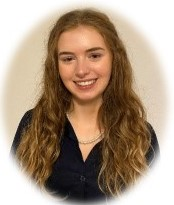
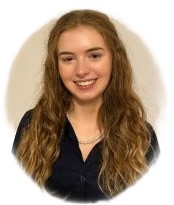
07.11.

Changed region(s): [[0.0, 0.0, 0.977, 1.0], [0.8621, 0.7902, 0.8908, 0.8488]]

diff --git a/functions/mystyle.css b/functions/mystyle.css
@@ -17,6 +17,70 @@ body{
     background-color: #d7f8fe;    
 }
 
+.img-small {
+    width: 30%;
+    height: auto;
+}
+
+.animated-slide-in {
+    animation: slideIn 2s ease-out;
+}
+
+@keyframes slideIn {
+    0% {
+        transform: translateX(-100%); /* Start von links */
+        opacity: 0; /* Unsichtbar zu Beginn */
+    }
+    100% {
+        transform: translateX(0); /* Endposition */
+        opacity: 1; /* Voll sichtbar */
+    }
+}
+
+.img-hover-zoom {
+    width: 30%;
+    height: auto;
+    transition: transform 0.3s ease-in-out;
+}
+
+.img-hover-zoom:hover {
+    transform: scale(1.1); /* Vergrößert das Bild beim Hover */
+}
+
+.position-relative {
+    position: relative;
+    display: inline-block;
+}
+
+.overlay {
+    position: absolute;
+    top: -30px; /* Platziert das Overlay oberhalb des Bildes */
+    left: 50%;
+    transform: translateX(-50%);
+    background-color: rgba(255, 255, 255, 0.9);
+    padding: 5px 10px;
+    border-radius: 5px;
+    display: none; /* Standardmäßig ausgeblendet */
+    box-shadow: 0 0 5px rgba(0, 0, 0, 0.2);
+}
+
+.position-relative:hover .overlay {
+    display: block; /* Zeigt das Overlay an, wenn die Maus über dem Bild ist */
+}
+
+.overlay a {
+    text-decoration: none;
+    color: #333;
+    font-size: 0.9rem;
+}
+
+.overlay img {
+    vertical-align: middle;
+}
+
+
+
+
 /* 
 footer{
     margin-top: 10rem;

diff --git a/templates/team.php b/templates/team.php
@@ -36,33 +36,39 @@ Ein weiterer wichtiger Aspekt ist ihre Leidenschaft und Motivation für ihr Unte
    </p>
   </div>
   <br><br>
-  
 
-  <div class="container text-center">
+
+
+<div class="container text-center">
   <div class="row">
-    <div class="col">
-      1 of 2
-      <img src="assets/img/celi1.jpg" class="card-img-top" alt="Bild überfüllter Apothekenschrank" style="width: 30%; height: auto;">
+    <div class="col position-relative">
+      <div class="overlay">
+        <a href="https://github.com/celinebittmann" target="_blank">
+          <img src="assets/img/github_logo.jpg" alt="GitHub Icon" style="width: 16px; height: 16px; margin-right: 5px;">
+          GitHub - Celine Bittmann
+        </a>
+      </div>
+      <img src="assets/img/celi2.jpg" class="img-small animated-slide-in img-hover-zoom" alt="Bild von Celine">
     </div>
-    <div class="col">
-      2 of 2
-      <img src="assets/img/anja.jpg" class="card-img-top" alt="Bild überfüllter Apothekenschrank" style="width: 30%; height: auto;">
-    </div>
-  </div>
-  <div class="row">
-    <div class="col">
-      1 of 2
-    </div>
-    <div class="col">
-      2 of 2
+    <div class="col position-relative">
+      <div class="overlay">
+        <a href="https://github.com/celinebittmann" target="_blank">
+          <img src="assets/img/github_logo.jpg" alt="GitHub Icon" style="width: 16px; height: 16px; margin-right: 5px;">
+          GitHub - Anja Brüstl
+        </a>
+      </div>
+      <img src="assets/img/celi1.jpg" class="img-small animated-slide-in img-hover-zoom" alt="Bild von Anja">
     </div>
   </div>
 </div>
+
+
 
 
 </div>
     <script src="https://cdn.jsdelivr.net/npm/bootstrap@5.3.2/dist/js/bootstrap.bundle.min.js" integrity="sha384-C6RzsynM9kWDrMNeT87bh95OGNyZPhcTNXj1NW7RuBCsyN/o0jlpcV8Qyq46cDfL" crossorigin="anonymous"></script>
   </body>
+
   <!-- Hintergrundfarbe & -verlauf -->
   <style>
 body {
@@ -85,6 +91,70 @@ body {
         background-position: 0% 50%;
     }
 }
+
+
+
+
+.img-small {
+    width: 30%;
+    height: auto;
+    transition: transform 0.3s ease-in-out;
+}
+
+.animated-slide-in {
+    animation: slideIn 2s ease-out;
+}
+
+@keyframes slideIn {
+    0% {
+        transform: translateX(-100%); /* Start von links */
+        opacity: 0; /* Unsichtbar zu Beginn */
+    }
+    100% {
+        transform: translateX(0); /* Endposition */
+        opacity: 1; /* Voll sichtbar */
+    }
+}
+
+.img-hover-zoom:hover {
+    transform: scale(1.1); /* Vergrößert das Bild beim Hover */
+}
+
+.position-relative {
+    position: relative;
+    display: inline-block;
+}
+
+.overlay {
+    position: absolute;
+    top: -40px; /* Platziert das Overlay oberhalb des Bildes */
+    left: 50%;
+    transform: translateX(-50%);
+    background-color: rgba(255, 255, 255, 0.9);
+    padding: 5px 10px;
+    border-radius: 5px;
+    display: none; /* Standardmäßig ausgeblendet */
+    box-shadow: 0 0 5px rgba(0, 0, 0, 0.2);
+    z-index: 10; /* Stellt sicher, dass das Overlay über dem Bild bleibt */
+}
+
+.position-relative:hover .overlay {
+    display: block; /* Zeigt das Overlay an, wenn die Maus über dem Bild ist */
+}
+
+.overlay a {
+    text-decoration: none;
+    color: #333;
+    font-size: 0.9rem;
+}
+
+.overlay img {
+    vertical-align: middle;
+}
+
+
 </style>
+
+
 
 </html>

diff --git a/app.php b/app.php
@@ -27,7 +27,46 @@ $andi = $dbh->query($sql);
 
     <br>
     <h1>Unsere App</h1>
+    <br> <br>
 
+    <div id="carouselExampleCaptions" class="carousel slide">
+  <div class="carousel-indicators">
+    <button type="button" data-bs-target="#carouselExampleCaptions" data-bs-slide-to="0" class="active" aria-current="true" aria-label="Slide 1"></button>
+    <button type="button" data-bs-target="#carouselExampleCaptions" data-bs-slide-to="1" aria-label="Slide 2"></button>
+    <button type="button" data-bs-target="#carouselExampleCaptions" data-bs-slide-to="2" aria-label="Slide 3"></button>
+  </div>
+  <div class="carousel-inner">
+    <div class="carousel-item active">
+      <img src="..." class="d-block w-100" alt="...">
+      <div class="carousel-caption d-none d-md-block">
+        <h5>First slide label</h5>
+        <p>Some representative placeholder content for the first slide.</p>
+      </div>
+    </div>
+    <div class="carousel-item">
+      <img src="..." class="d-block w-100" alt="...">
+      <div class="carousel-caption d-none d-md-block">
+        <h5>Second slide label</h5>
+        <p>Some representative placeholder content for the second slide.</p>
+      </div>
+    </div>
+    <div class="carousel-item">
+      <img src="..." class="d-block w-100" alt="...">
+      <div class="carousel-caption d-none d-md-block">
+        <h5>Third slide label</h5>
+        <p>Some representative placeholder content for the third slide.</p>
+      </div>
+    </div>
+  </div>
+  <button class="carousel-control-prev" type="button" data-bs-target="#carouselExampleCaptions" data-bs-slide="prev">
+    <span class="carousel-control-prev-icon" aria-hidden="true"></span>
+    <span class="visually-hidden">Previous</span>
+  </button>
+  <button class="carousel-control-next" type="button" data-bs-target="#carouselExampleCaptions" data-bs-slide="next">
+    <span class="carousel-control-next-icon" aria-hidden="true"></span>
+    <span class="visually-hidden">Next</span>
+  </button>
+</div>
   
 
 
